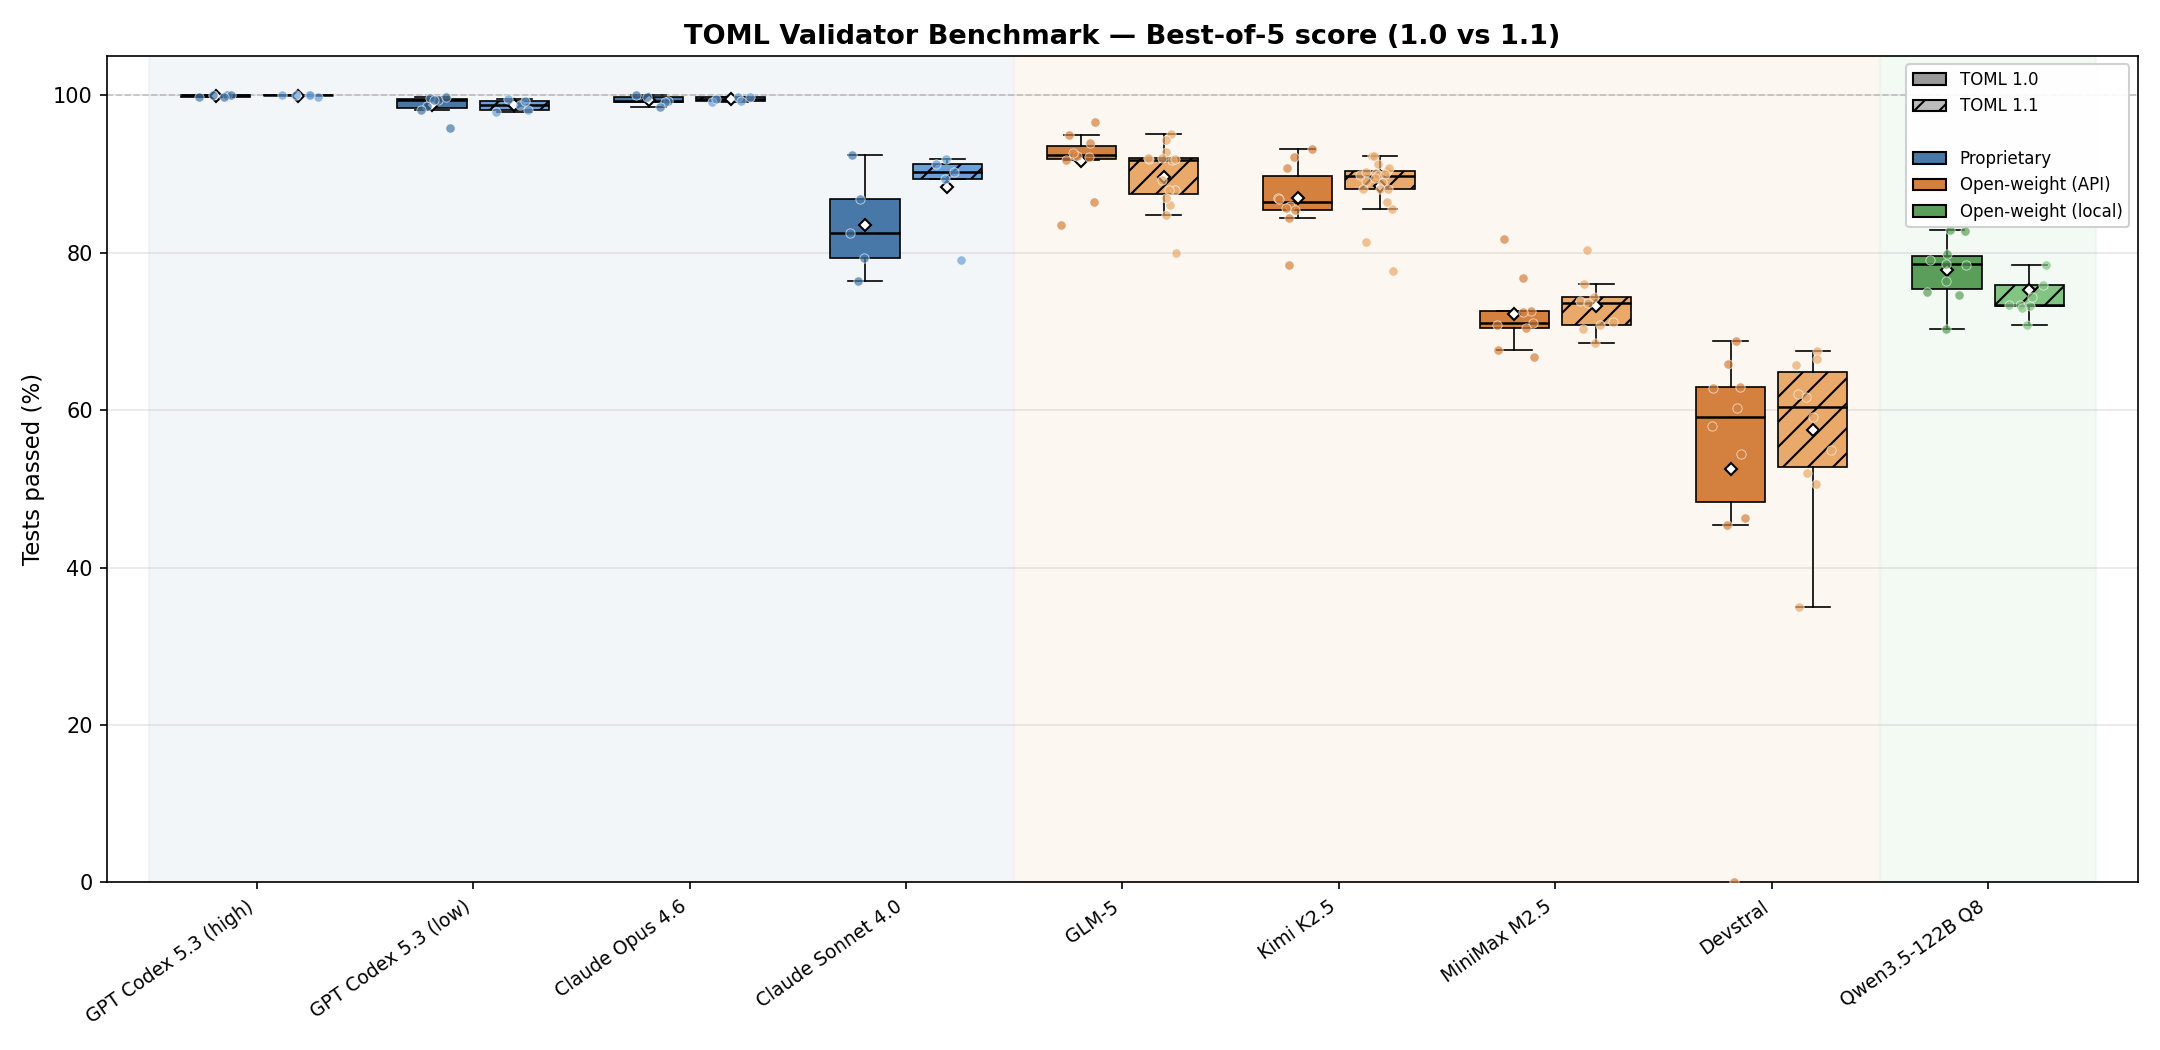
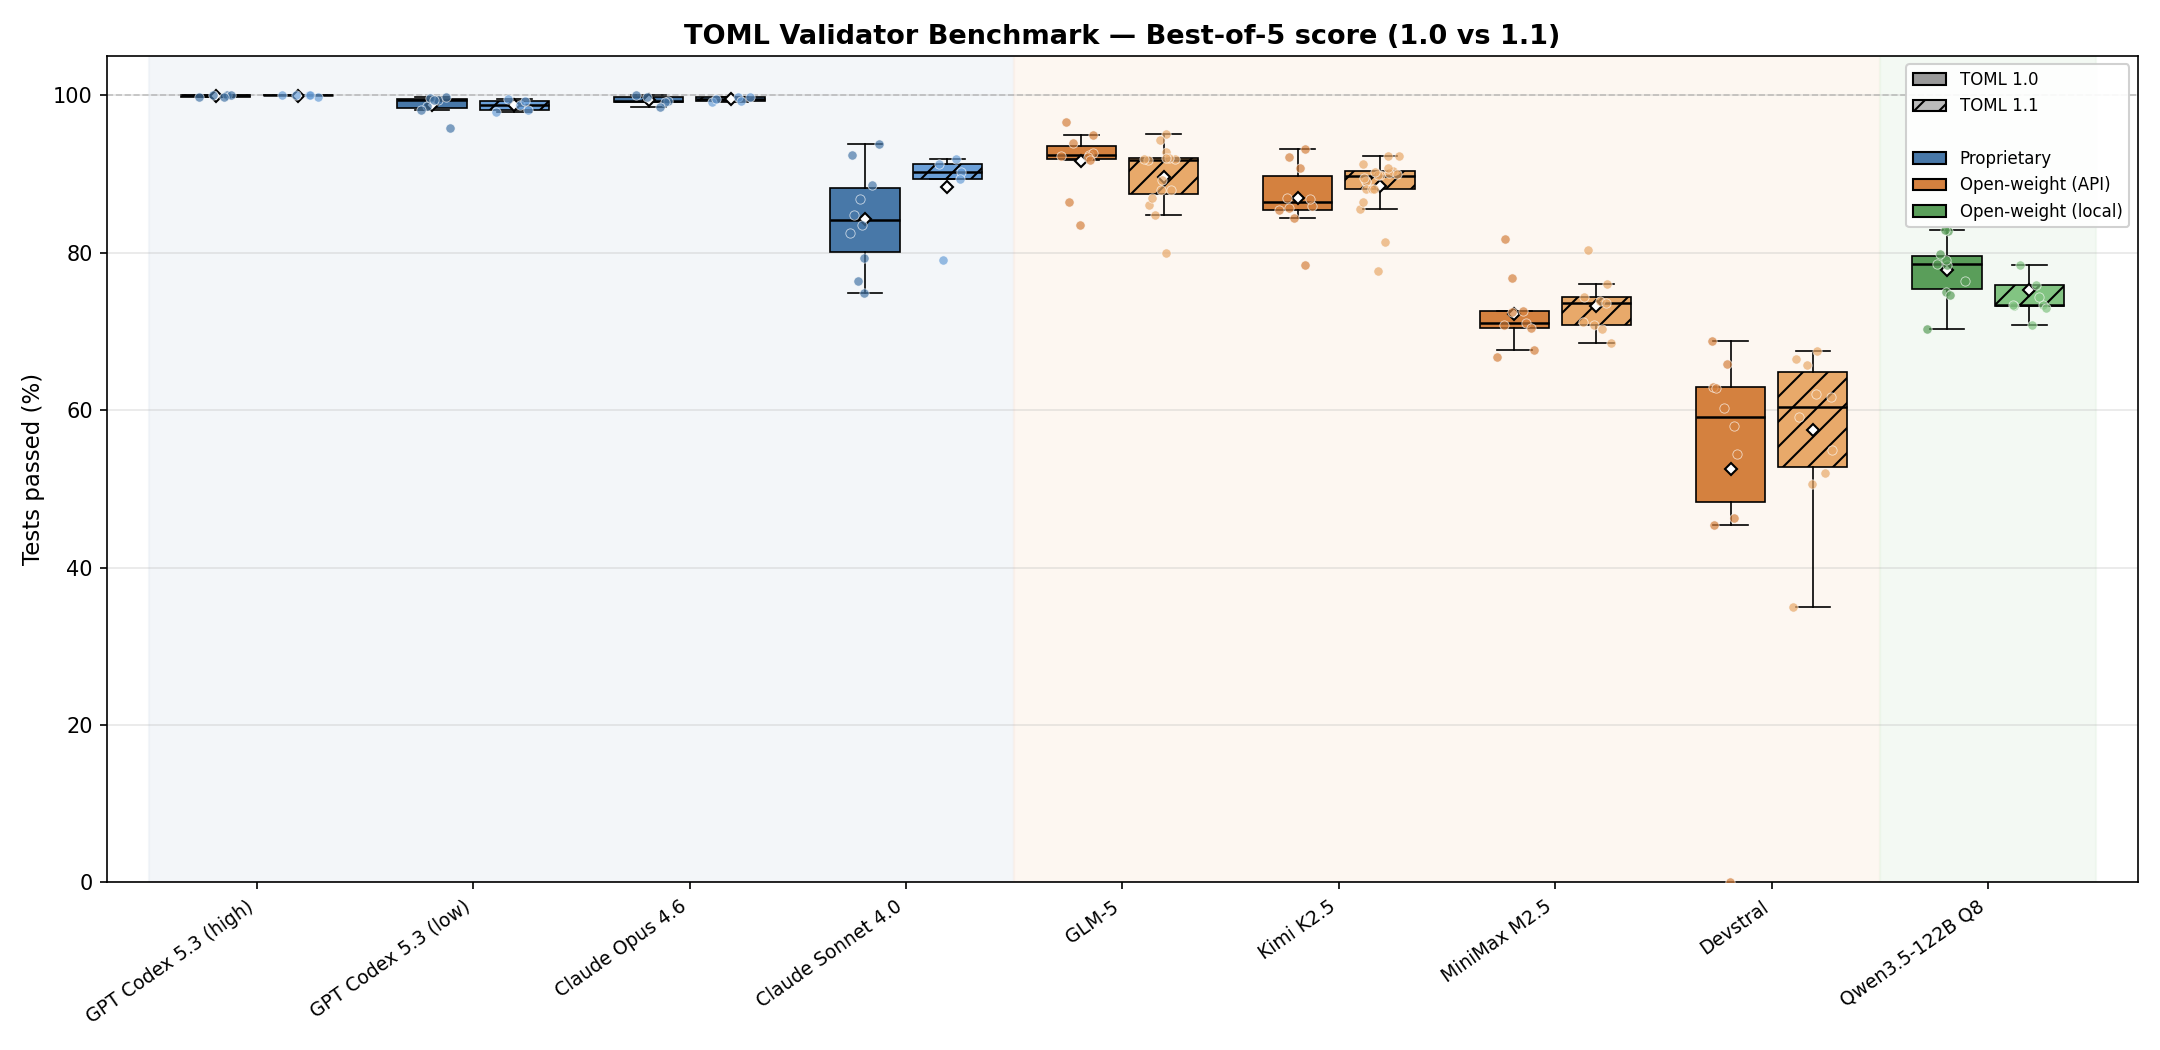
Add Qwen3.5-122B Q2 (1.1), toml-combined-cpp results, top up Sonnet 4.0 (1.0)
## New results

- Qwen3.5-122B Q2 on toml-1.1-cpp: 10 attempts, now 10 models on 1.1
- toml-combined-cpp: first 3 models (GLM-5, Kimi K2.5, Qwen3.5-122B Q8)
  with per-version and discrimination test breakdowns
- Claude Sonnet 4.0 on toml-1.0-cpp: topped up from 5 to 10 attempts,
  best-of-5 mean shifted 566.2 → 571.7/678

## Regenerated

- All summary.txt files (toml-1.0-cpp, toml-1.1-cpp, toml-combined-cpp)
- All chart.png files and comparison.png
- STATUS.md with toml-combined-cpp column and Qwen Q2 row

diff --git a/results/STATUS.md b/results/STATUS.md
@@ -1,21 +1,22 @@
 # Evaluation Status
 
-Coverage matrix for toml-1.0-cpp (678 tests) and toml-1.1-cpp (680 tests).
+Coverage matrix for toml-1.0-cpp (678 tests), toml-1.1-cpp (680 tests), and toml-combined-cpp (1490 tests).
 
 Target: 10 attempts per model per task.
 
-| Model                | toml-1.0-cpp | toml-1.1-cpp |
-|----------------------|--------------|--------------|
-| Claude Opus 4.6      | 5/10         | 5/10         |
-| Claude Sonnet 4.0    | 5/10         | 5/10         |
-| Claude Sonnet 4.6    | --           | --           |
-| Devstral             | 10/10        | 10/10        |
-| GLM-5                | 10/10        | 15/10        |
-| GPT Codex 5.3 (high) | 5/10        | 5/10         |
-| GPT Codex 5.3 (low)  | 7/10        | 5/10         |
-| Kimi K2.5            | 10/10        | 20/10        |
-| MiniMax M2.5         | 9/10         | 9/10         |
-| Qwen3.5-122B Q8      | 10/10        | 9/10         |
+| Model                | toml-1.0-cpp | toml-1.1-cpp | toml-combined-cpp |
+|----------------------|--------------|--------------|-------------------|
+| Claude Opus 4.6      | 5/10         | 5/10         | --                |
+| Claude Sonnet 4.0    | 10/10        | 5/10         | --                |
+| Claude Sonnet 4.6    | --           | --           | --                |
+| Devstral             | 10/10        | 10/10        | --                |
+| GLM-5                | 10/10        | 15/10        | 5/10              |
+| GPT Codex 5.3 (high) | 5/10        | 5/10         | --                |
+| GPT Codex 5.3 (low)  | 7/10        | 5/10         | --                |
+| Kimi K2.5            | 10/10        | 20/10        | 5/10              |
+| MiniMax M2.5         | 9/10         | 9/10         | --                |
+| Qwen3.5-122B Q2      | --           | 10/10        | --                |
+| Qwen3.5-122B Q8      | 10/10        | 9/10         | 5/10              |
 
 **Legend:** `N/10` = N attempts completed, `--` = not started
 
